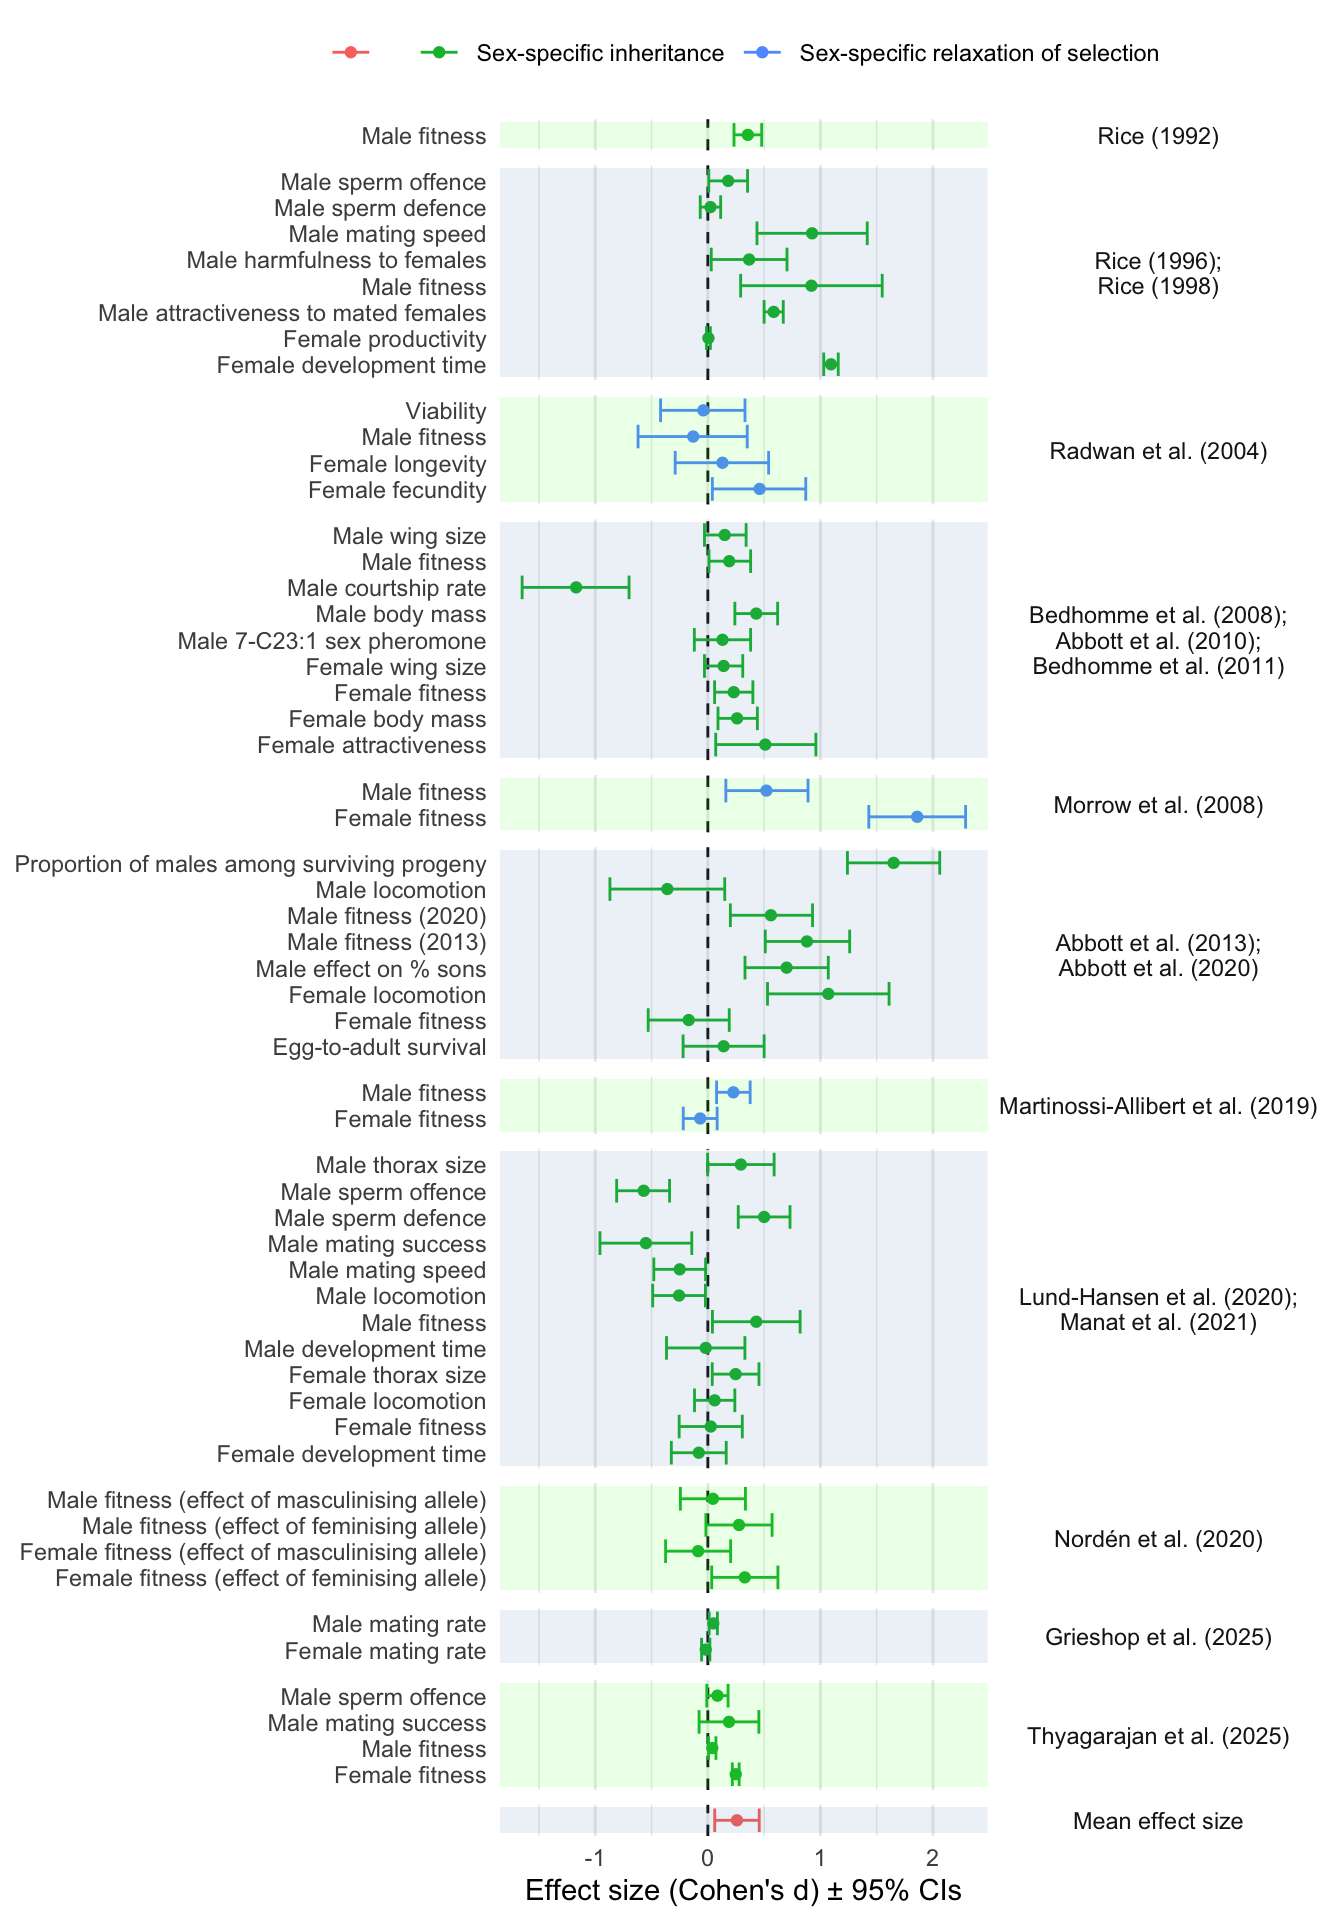
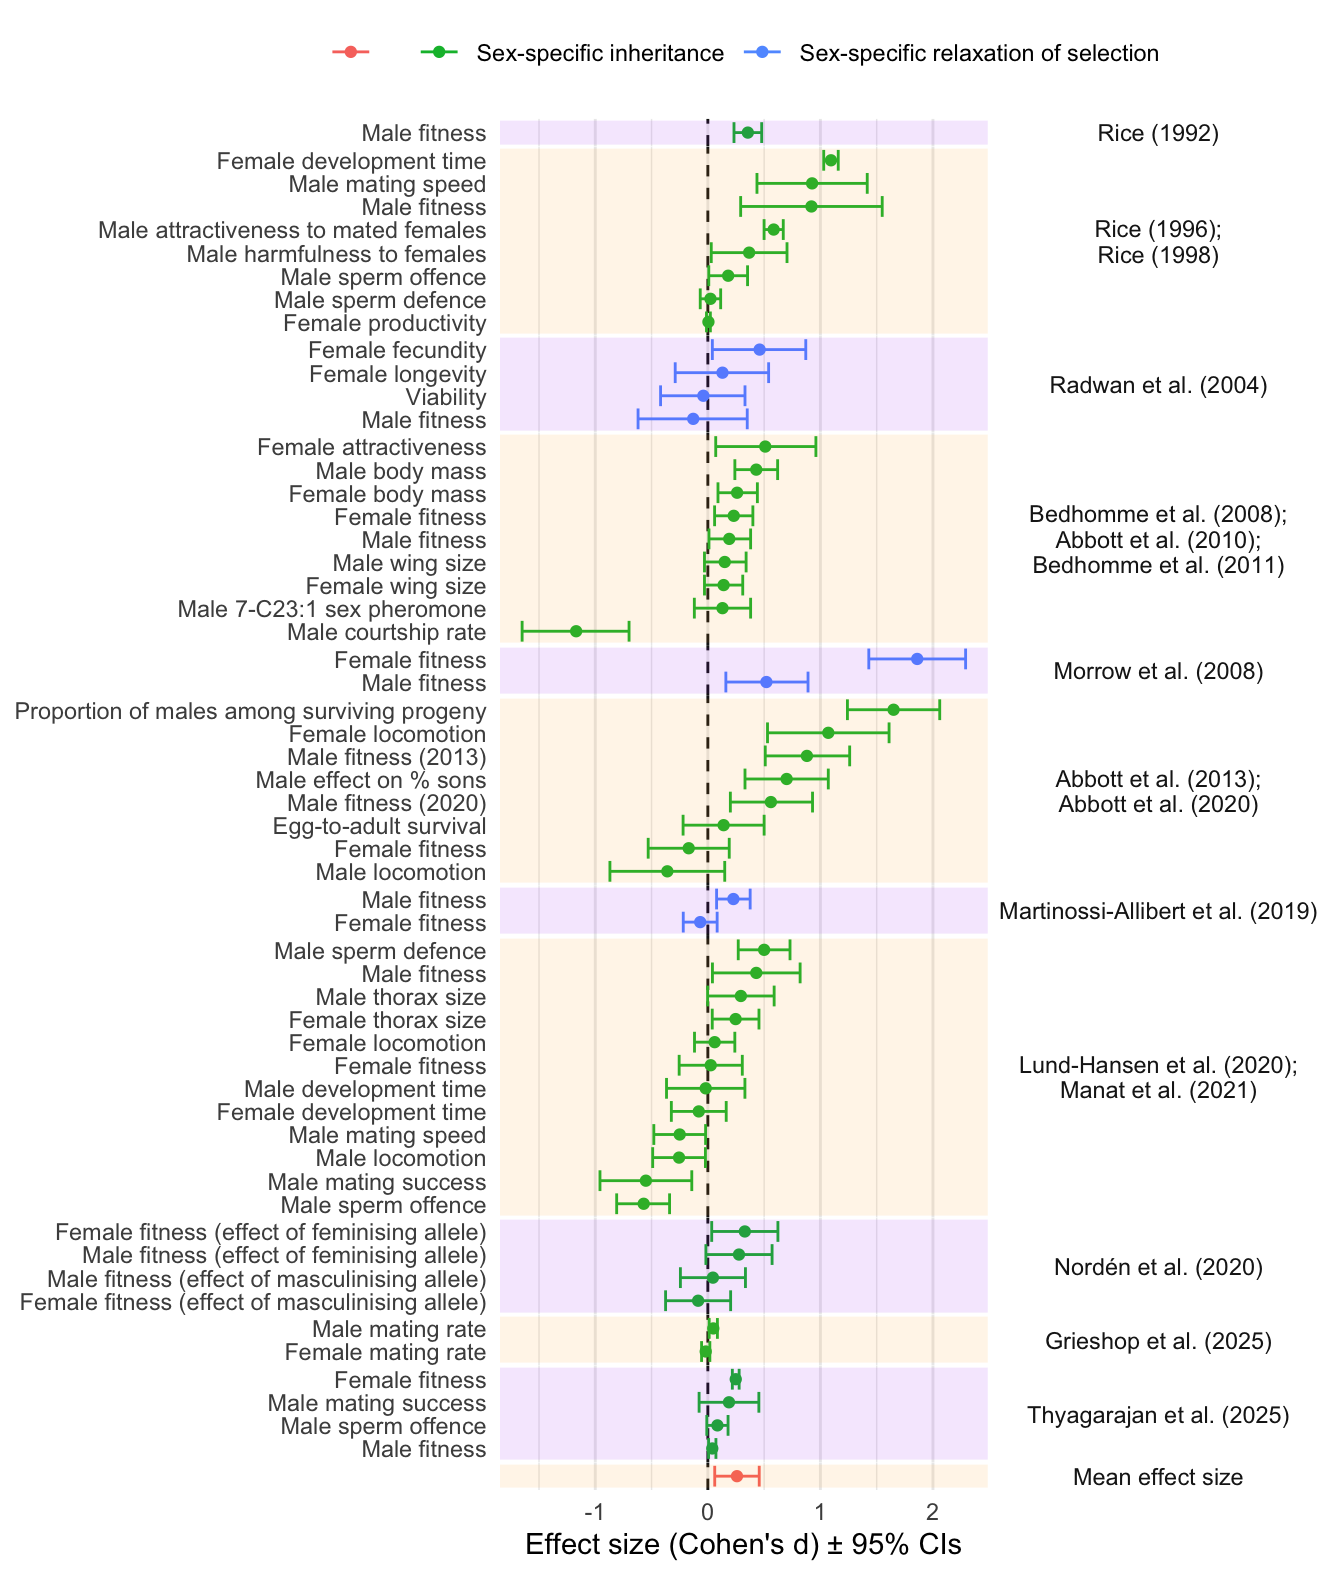
pm typo

diff --git a/docs/meta_analysis.html b/docs/meta_analysis.html
@@ -399,7 +399,7 @@ div.tocify {
 <p>
 <button type="button" class="btn btn-default btn-workflowr btn-workflowr-report" data-toggle="collapse" data-target="#workflowr-report">
 <span class="glyphicon glyphicon-list" aria-hidden="true"></span>
-workflowr <span class="glyphicon glyphicon-ok text-success"
+workflowr <span class="glyphicon glyphicon-exclamation-sign text-danger"
 aria-hidden="true"></span>
 </button>
 </p>
@@ -410,8 +410,8 @@ aria-hidden="true"></span>
 </li>
 <li>
 <a data-toggle="tab" href="#checks"> Checks <span
-class="glyphicon glyphicon-ok text-success" aria-hidden="true"></span>
-</a>
+class="glyphicon glyphicon-exclamation-sign text-danger"
+aria-hidden="true"></span> </a>
 </li>
 <li>
 <a data-toggle="tab" href="#versions">Past versions</a>
@@ -424,9 +424,9 @@ class="glyphicon glyphicon-ok text-success" aria-hidden="true"></span>
 </p>
 <p>
 <strong>Checks:</strong> <span
-class="glyphicon glyphicon-ok text-success" aria-hidden="true"></span> 7
+class="glyphicon glyphicon-ok text-success" aria-hidden="true"></span> 6
 <span class="glyphicon glyphicon-exclamation-sign text-danger"
-aria-hidden="true"></span> 0
+aria-hidden="true"></span> 1
 </p>
 <p>
 <strong>Knit directory:</strong> <code>exp_evol_metaanalysis/</code>
@@ -449,18 +449,21 @@ versions</em> tab lists the development history.
 <div class="panel panel-default">
 <div class="panel-heading">
 <p class="panel-title">
-<a data-toggle="collapse" data-parent="#workflowr-checks" href="#strongRMarkdownfilestronguptodate">
-<span class="glyphicon glyphicon-ok text-success"
-aria-hidden="true"></span> <strong>R Markdown file:</strong> up-to-date
-</a>
+<a data-toggle="collapse" data-parent="#workflowr-checks" href="#strongRMarkdownfilestronguncommittedchanges">
+<span class="glyphicon glyphicon-exclamation-sign text-danger"
+aria-hidden="true"></span> <strong>R Markdown file:</strong> uncommitted
+changes </a>
 </p>
 </div>
-<div id="strongRMarkdownfilestronguptodate"
+<div id="strongRMarkdownfilestronguncommittedchanges"
 class="panel-collapse collapse">
 <div class="panel-body">
-<p>Great! Since the R Markdown file has been committed to the Git
-repository, you know the exact version of the code that produced these
-results.</p>
+<p>The R Markdown file has unstaged changes. To know which version of
+the R Markdown file created these results, you’ll want to first commit
+it to the Git repo. If you’re still working on the analysis, you can
+ignore this warning. When you’re finished, you can run
+<code>wflow_publish</code> to commit the R Markdown file and build the
+HTML.</p>
 </div>
 </div>
 </div>
@@ -551,15 +554,15 @@ project makes it easier to run your code on other machines.</p>
 <div class="panel panel-default">
 <div class="panel-heading">
 <p class="panel-title">
-<a data-toggle="collapse" data-parent="#workflowr-checks" href="#strongRepositoryversionstrongahrefhttpsgithubcomlukeholmanexpevolmetaanalysistreed64f5edc0196db6e34cf6a6797dc304b67bf03betargetblankd64f5eda">
+<a data-toggle="collapse" data-parent="#workflowr-checks" href="#strongRepositoryversionstrongahrefhttpsgithubcomlukeholmanexpevolmetaanalysistree77d88f04991dfed46a7c0a4f24a795d5b71c0b23targetblank77d88f0a">
 <span class="glyphicon glyphicon-ok text-success"
 aria-hidden="true"></span> <strong>Repository version:</strong>
-<a href="https://github.com/lukeholman/exp_evol_metaanalysis/tree/d64f5edc0196db6e34cf6a6797dc304b67bf03be" target="_blank">d64f5ed</a>
+<a href="https://github.com/lukeholman/exp_evol_metaanalysis/tree/77d88f04991dfed46a7c0a4f24a795d5b71c0b23" target="_blank">77d88f0</a>
 </a>
 </p>
 </div>
 <div
[2 lines of base64/hex data omitted]
 class="panel-collapse collapse">
 <div class="panel-body">
 <p>
@@ -569,7 +572,7 @@ reproducibility.
 </p>
 <p>
 The results in this page were generated with repository version
-<a href="https://github.com/lukeholman/exp_evol_metaanalysis/tree/d64f5edc0196db6e34cf6a6797dc304b67bf03be" target="_blank">d64f5ed</a>.
+<a href="https://github.com/lukeholman/exp_evol_metaanalysis/tree/77d88f04991dfed46a7c0a4f24a795d5b71c0b23" target="_blank">77d88f0</a>.
 See the <em>Past versions</em> tab to see a history of the changes made
 to the R Markdown and HTML files.
 </p>
@@ -600,6 +603,7 @@ Ignored files:
     Ignored:    input_data/lundhansen_github_data_FLXevoexp-master/ThoraxSizeGeneration72/.Rapp.history
 
 Unstaged changes:
+    Modified:   analysis/meta_analysis.Rmd
     Deleted:    data/README.md
     Deleted:    output/README.md
 
@@ -646,6 +650,23 @@ Message
 </tr>
 </thead>
 <tbody>
+<tr>
+<td>
+html
+</td>
+<td>
+<a href="https://rawcdn.githack.com/lukeholman/exp_evol_metaanalysis/77d88f04991dfed46a7c0a4f24a795d5b71c0b23/docs/meta_analysis.html" target="_blank">77d88f0</a>
+</td>
+<td>
+luekholman
+</td>
+<td>
+2026-02-09
+</td>
+<td>
+Build site.
+</td>
+</tr>
 <tr>
 <td>
 Rmd
@@ -978,7 +999,7 @@ fit_all(c(&quot;~ Generations + Sex + Experiment_type1&quot;,
           &quot;Intercept only&quot;)) %&gt;% 
   kable() %&gt;% 
   kable_styling(full_width = FALSE)</code></pre>
-<table class="table" style="width: auto !important; margin-left: auto; margin-right: auto;">
+<table class="table" style="color: black; width: auto !important; margin-left: auto; margin-right: auto;">
 <thead>
 <tr>
 <th style="text-align:left;">
@@ -1193,30 +1214,39 @@ bands &lt;- plot_data %&gt;%
     stripe = row_number() %% 2
   )
 
-plot_data %&gt;% 
+# order the traits within studies by effect size
+plot_data &lt;- plot_data %&gt;% 
   mutate(Short_name = factor(Short_name, levs)) %&gt;% 
-  ggplot(aes(y = Trait, x = Estimate)) +
+  arrange(Estimate) %&gt;% 
+  mutate(Trait_study = factor(paste(Trait, Short_name, sep = &quot;~&quot;), 
+                              unique(paste(Trait, Short_name, sep = &quot;~&quot;))))
+
+plot_data %&gt;% 
+  ggplot(aes(y = Trait_study, x = Estimate)) +
   geom_vline(xintercept = 0, linetype = 2, colour = &quot;grey10&quot;) +
   geom_errorbar(aes(xmin = Lower_95_CI, 
                     xmax = Upper_95_CI, 
                     colour = Experiment_type1)) +
   geom_point(aes(colour = Experiment_type1)) + 
+  scale_y_discrete(labels = function(x) sub(&quot;~.*$&quot;, &quot;&quot;, x)) + 
   facet_grid2( rows = vars(Short_name),
     scales = &quot;free_y&quot;,
     space = &quot;free_y&quot;) +
   theme_minimal()+
   theme(legend.position = &quot;top&quot;,
         panel.grid.major.y = element_blank(),
-        strip.text.y = element_text(angle = 0))+ 
+        strip.text.y = element_text(angle = 0),
+        panel.spacing.y=unit(0, &quot;lines&quot;))+ 
   labs(x = &quot;Effect size (Cohen&#39;s d) \u00B1 95% CIs&quot;, 
        y = NULL,
-       colour = NULL) +  #geom_stripped_rows()
+       colour = NULL) +  
+  # scale_color_brewer(palette = &quot;Set1&quot;) + 
   geom_rect(
     data = bands,
     aes(ymin = ymin, ymax = ymax, xmin = -Inf, xmax = Inf, fill = factor(stripe)),
     alpha = 0.1,
     inherit.aes = FALSE,
-    fill = rep(c(&quot;green&quot;, &quot;steelblue&quot;), 6)
+    fill = rep(c(&quot;purple&quot;, &quot;orange&quot;), 6)
   )</code></pre>
 <p><img src="figure/meta_analysis.Rmd/unnamed-chunk-9-1.png" alt="" width="672" style="display: block; margin: auto;" /></p>
 <p>
@@ -1290,15 +1320,15 @@ luekholman
 </div>
 </div>
 <p><strong>Figure 1</strong>: Forest plot showing the estimated effect
-sizes (Cohen’s d 0B1 95% CIs). The y-axis indicates which trait was
-measured, and the coloured bands group effect sizes that come from the
-same set of experimental evolution lines (which are covered in one or
-more publications, named on the right). Positive effect sizes indicate
-evolutionary change in the direction predicted under IaSC, while
-negative effects indicate evolution in the opposite direction. Point
-colour differentiates between studies that manipulated inheritance vs
-selection. The grand mean effect size, shown at the bottom, is
-significantly positive.</p>
+sizes (Cohen’s d <span class="math inline">\(\pm\)</span> 95% CIs). The
+y-axis indicates which trait was measured, and the coloured bands group
+effect sizes that come from the same set of experimental evolution lines
+(which are covered in one or more publications, named on the right).
+Positive effect sizes indicate evolutionary change in the direction
+predicted under IaSC, while negative effects indicate evolution in the
+opposite direction. Point colour differentiates between studies that
+manipulated inheritance vs selection. The grand mean effect size, shown
+at the bottom, is significantly positive.</p>
 </div>
 <div id="plotting-effect-of-moderator-generations"
 class="section level2">
@@ -1402,26 +1432,24 @@ other attached packages:
 [10] forcats_1.0.1       stringr_1.6.0       dplyr_1.2.0        
 [13] purrr_1.2.1         readr_2.1.6         tidyr_1.3.2        
 [16] tibble_3.3.1        ggplot2_4.0.2       tidyverse_2.0.0    
-[19] workflowr_1.7.2    
 
 loaded via a namespace (and not attached):
  [1] gtable_0.3.6       xfun_0.56          bslib_0.10.0       htmlwidgets_1.6.4 
- [5] processx_3.8.6     lattice_0.22-7     callr_3.7.6        mathjaxr_2.0-0    
- [9] tzdb_0.5.0         crosstalk_1.2.2    vctrs_0.7.1        tools_4.5.2       
-[13] ps_1.9.1           generics_0.1.4     parallel_4.5.2     pkgconfig_2.0.3   
-[17] RColorBrewer_1.1-3 S7_0.2.1           lifecycle_1.0.5    compiler_4.5.2    
-[21] farver_2.1.2       git2r_0.36.2       textshaping_1.0.4  getPass_0.2-4     
-[25] httpuv_1.6.16      htmltools_0.5.9    sass_0.4.10        yaml_2.3.12       
-[29] crayon_1.5.3       later_1.4.5        pillar_1.11.1      jquerylib_0.1.4   
-[33] whisker_0.4.1      cachem_1.1.0       nlme_3.1-168       tidyselect_1.2.1  
-[37] digest_0.6.39      stringi_1.8.7      labeling_0.4.3     rprojroot_2.1.1   
-[41] fastmap_1.2.0      grid_4.5.2         cli_3.6.5          magrittr_2.0.4    
-[45] withr_3.0.2        scales_1.4.0       promises_1.5.0     bit64_4.6.0-1     
-[49] timechange_0.4.0   rmarkdown_2.30     httr_1.4.7         bit_4.6.0         
-[53] otel_0.2.0         hms_1.1.4          evaluate_1.0.5     knitr_1.51        
-[57] viridisLite_0.4.2  rlang_1.1.7        Rcpp_1.1.1         glue_1.8.0        
-[61] xml2_1.5.2         vroom_1.7.0        svglite_2.2.2      rstudioapi_0.18.0 
-[65] jsonlite_2.0.0     R6_2.6.1           systemfonts_1.3.1  fs_1.6.6          </code></pre>
+ [5] lattice_0.22-7     mathjaxr_2.0-0     tzdb_0.5.0         crosstalk_1.2.2   
+ [9] vctrs_0.7.1        tools_4.5.2        generics_0.1.4     parallel_4.5.2    
+[13] pkgconfig_2.0.3    RColorBrewer_1.1-3 S7_0.2.1           lifecycle_1.0.5   
+[17] compiler_4.5.2     farver_2.1.2       git2r_0.36.2       textshaping_1.0.4 
+[21] httpuv_1.6.16      htmltools_0.5.9    sass_0.4.10        yaml_2.3.12       
+[25] crayon_1.5.3       later_1.4.5        pillar_1.11.1      jquerylib_0.1.4   
+[29] whisker_0.4.1      cachem_1.1.0       nlme_3.1-168       tidyselect_1.2.1  
+[33] digest_0.6.39      stringi_1.8.7      labeling_0.4.3     rprojroot_2.1.1   
+[37] fastmap_1.2.0      grid_4.5.2         cli_3.6.5          magrittr_2.0.4    
+[41] withr_3.0.2        scales_1.4.0       promises_1.5.0     bit64_4.6.0-1     
+[45] timechange_0.4.0   rmarkdown_2.30     bit_4.6.0          otel_0.2.0        
+[49] workflowr_1.7.2    hms_1.1.4          evaluate_1.0.5     knitr_1.51        
+[53] viridisLite_0.4.2  rlang_1.1.7        Rcpp_1.1.1         glue_1.8.0        
+[57] xml2_1.5.2         vroom_1.7.0        svglite_2.2.2      rstudioapi_0.18.0 
+[61] jsonlite_2.0.0     R6_2.6.1           systemfonts_1.3.1  fs_1.6.6          </code></pre>
 </div>
 </div>
 </div>
